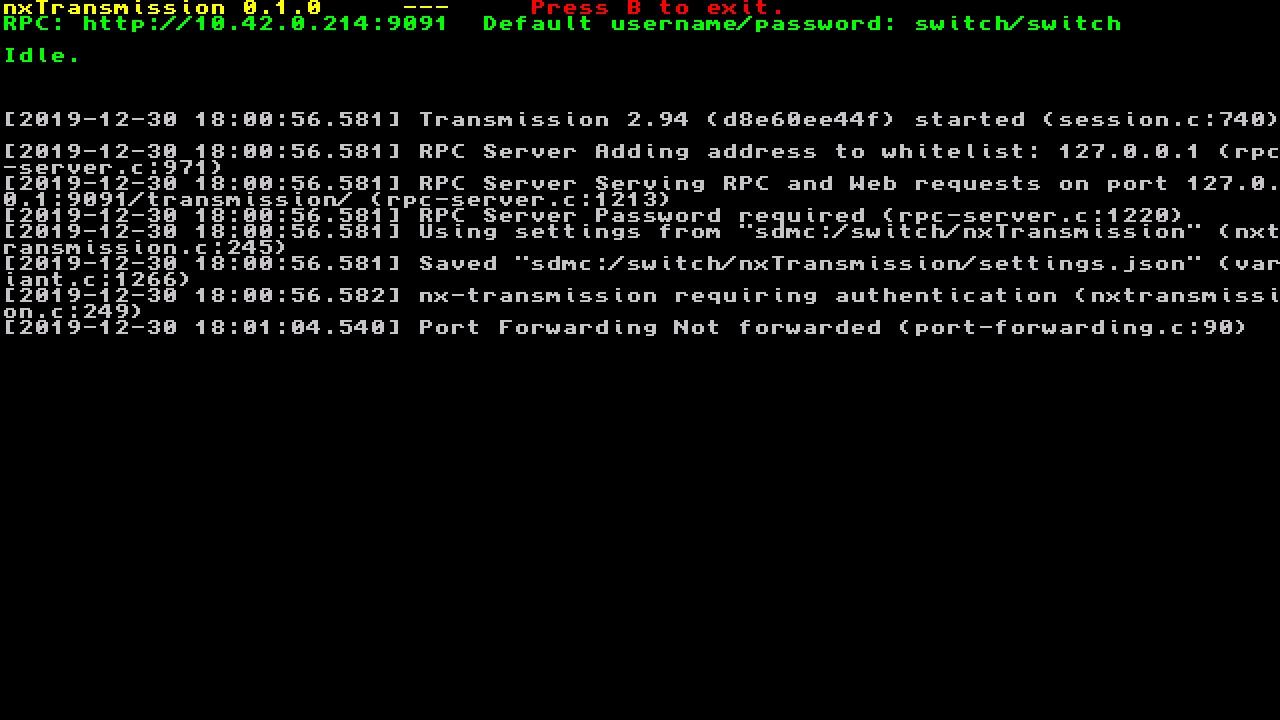
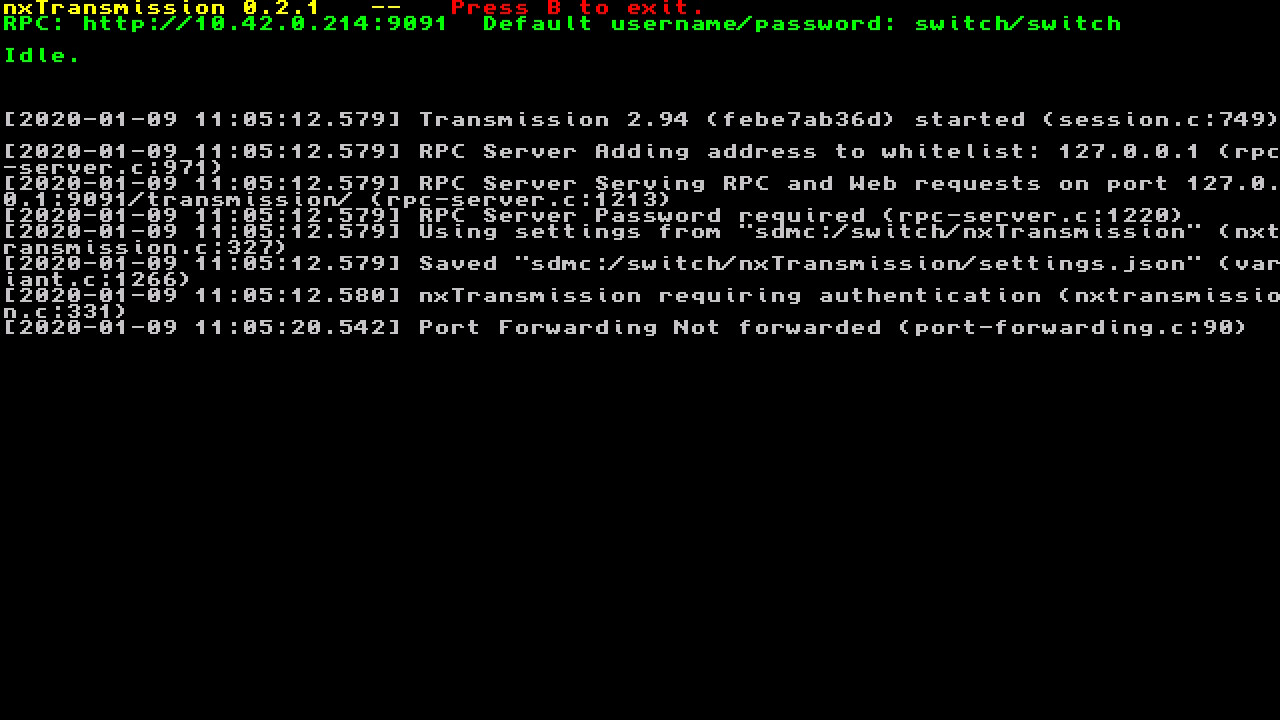
Update changelog and screenshot.

diff --git a/ChangeLog.md b/ChangeLog.md
@@ -6,7 +6,11 @@ and this project adheres to [Semantic Versioning](https://semver.org/spec/v2.0.0
 
 ## [Unreleased]
 
-##  [0.0.2] - 2020-01-08
+##  [0.2.1] - 2020-01-09
+### Fixed
+- Fixed split file size, and make sure the split size can be divided by chunk size, 32 768 bytes.
+
+##  [0.2.0] - 2020-01-08
 ### Added
 - Support for files bigger than 4GB on FAT32 by splitting and applying the file concatenation attribute.
 
@@ -14,6 +18,6 @@ and this project adheres to [Semantic Versioning](https://semver.org/spec/v2.0.0
 - Fix cli build on linux
 - Performance adjustment
 
-##  [0.0.1]
+##  [0.1.0]
 
 - First release.
